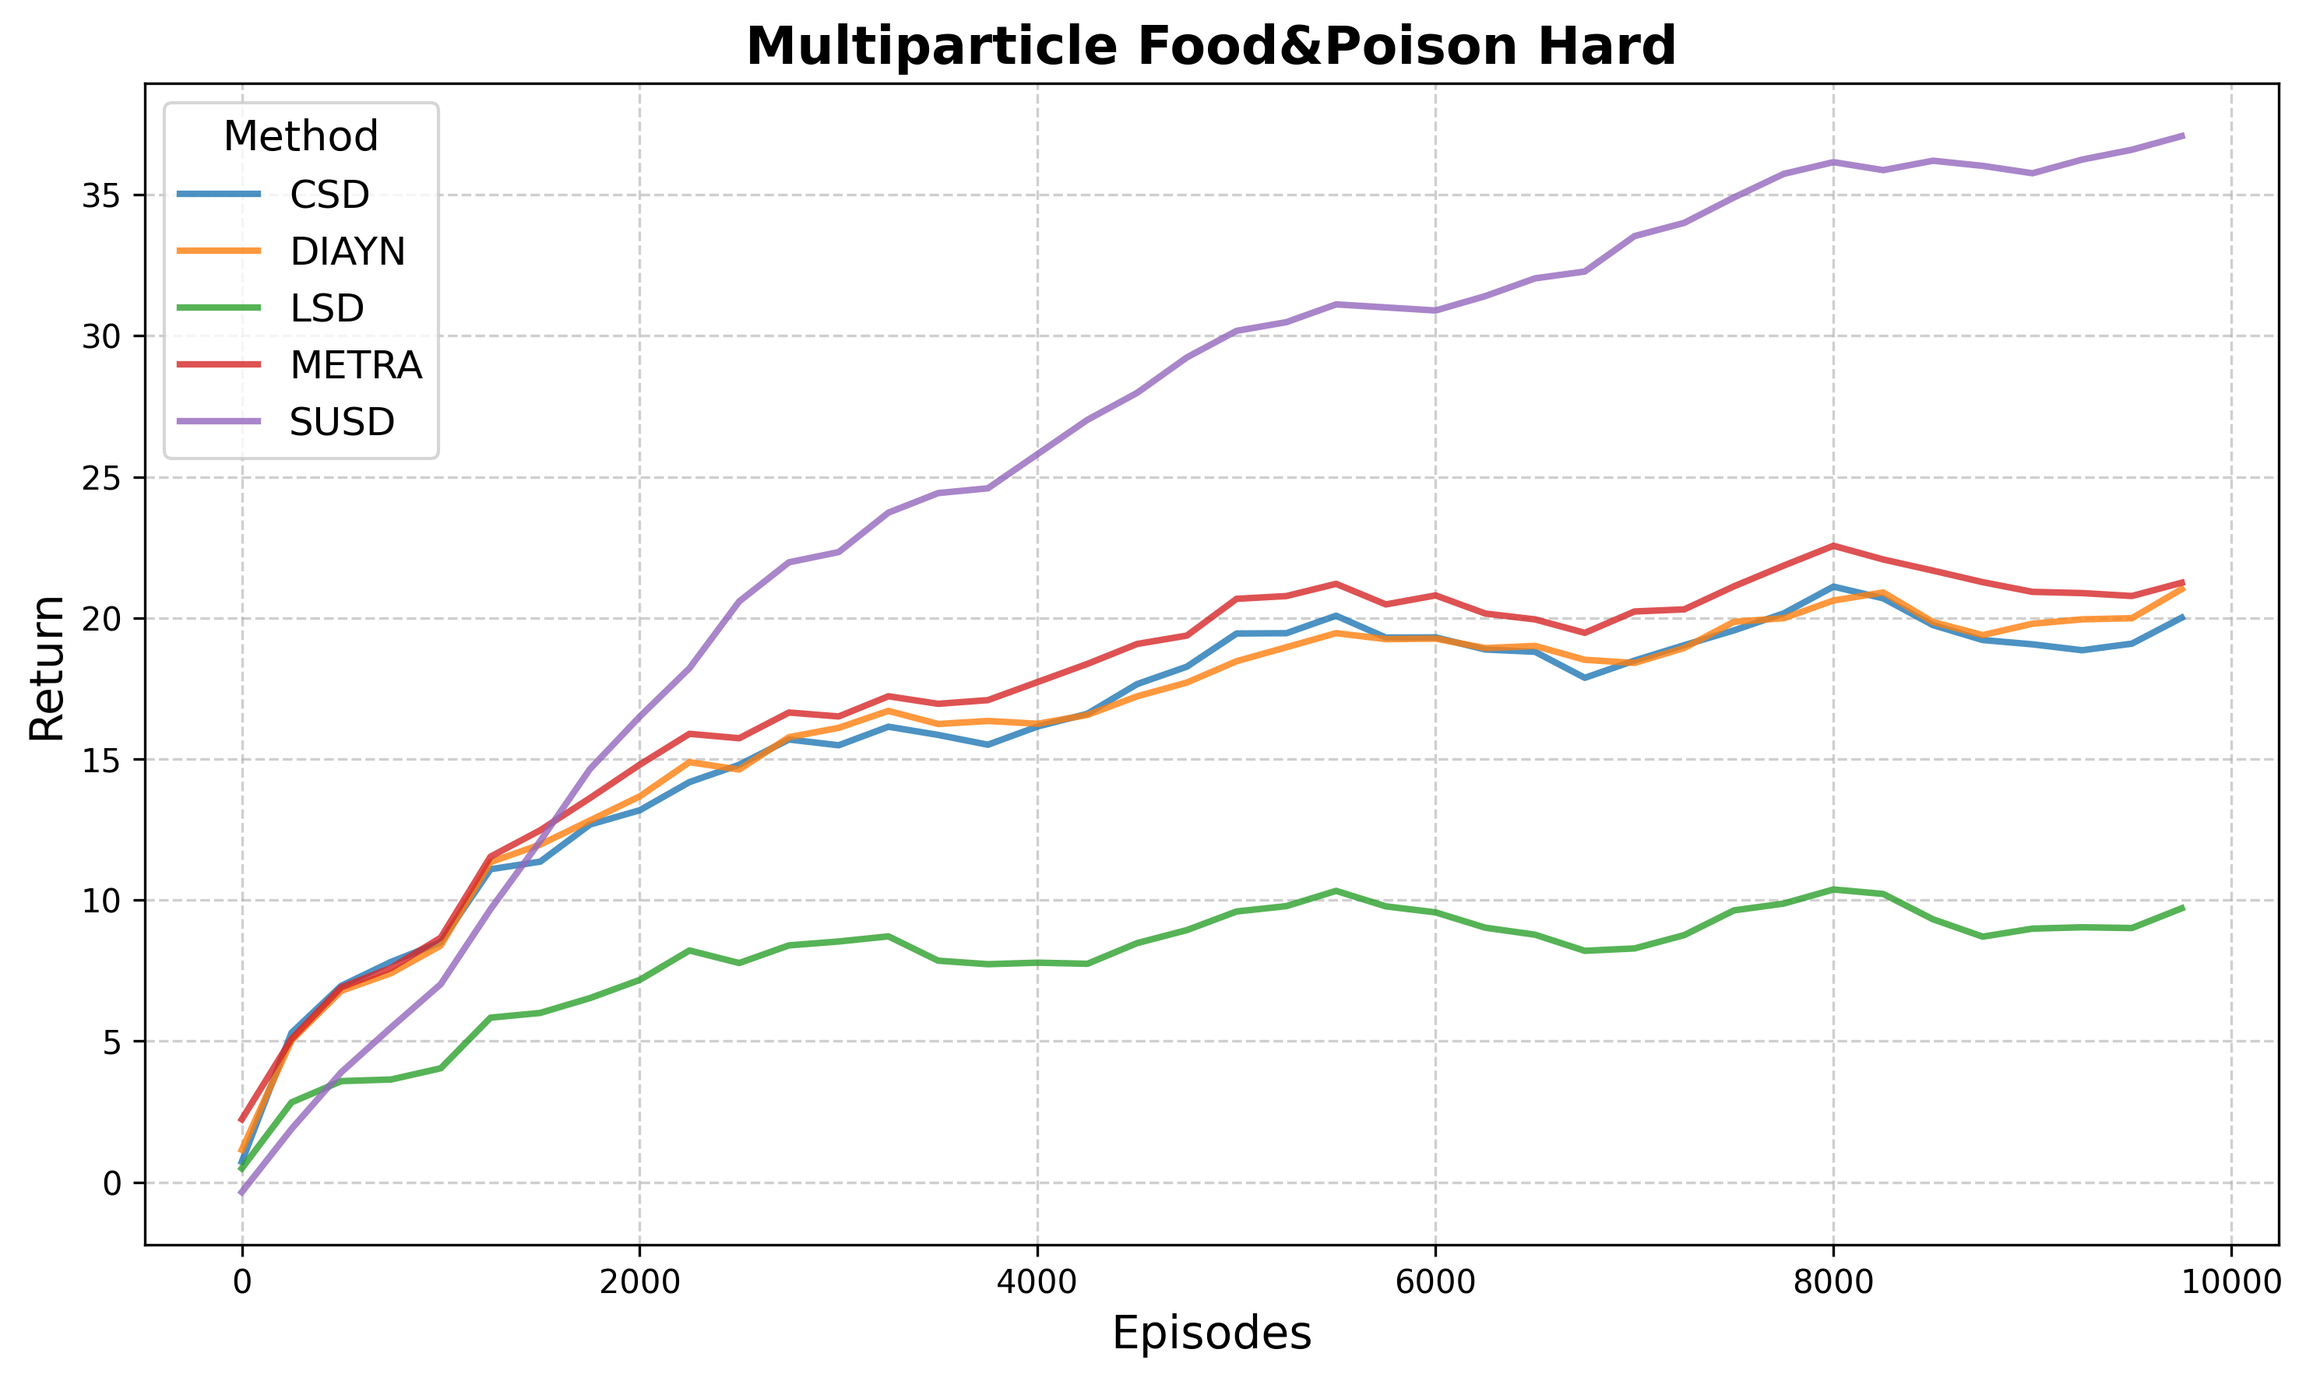
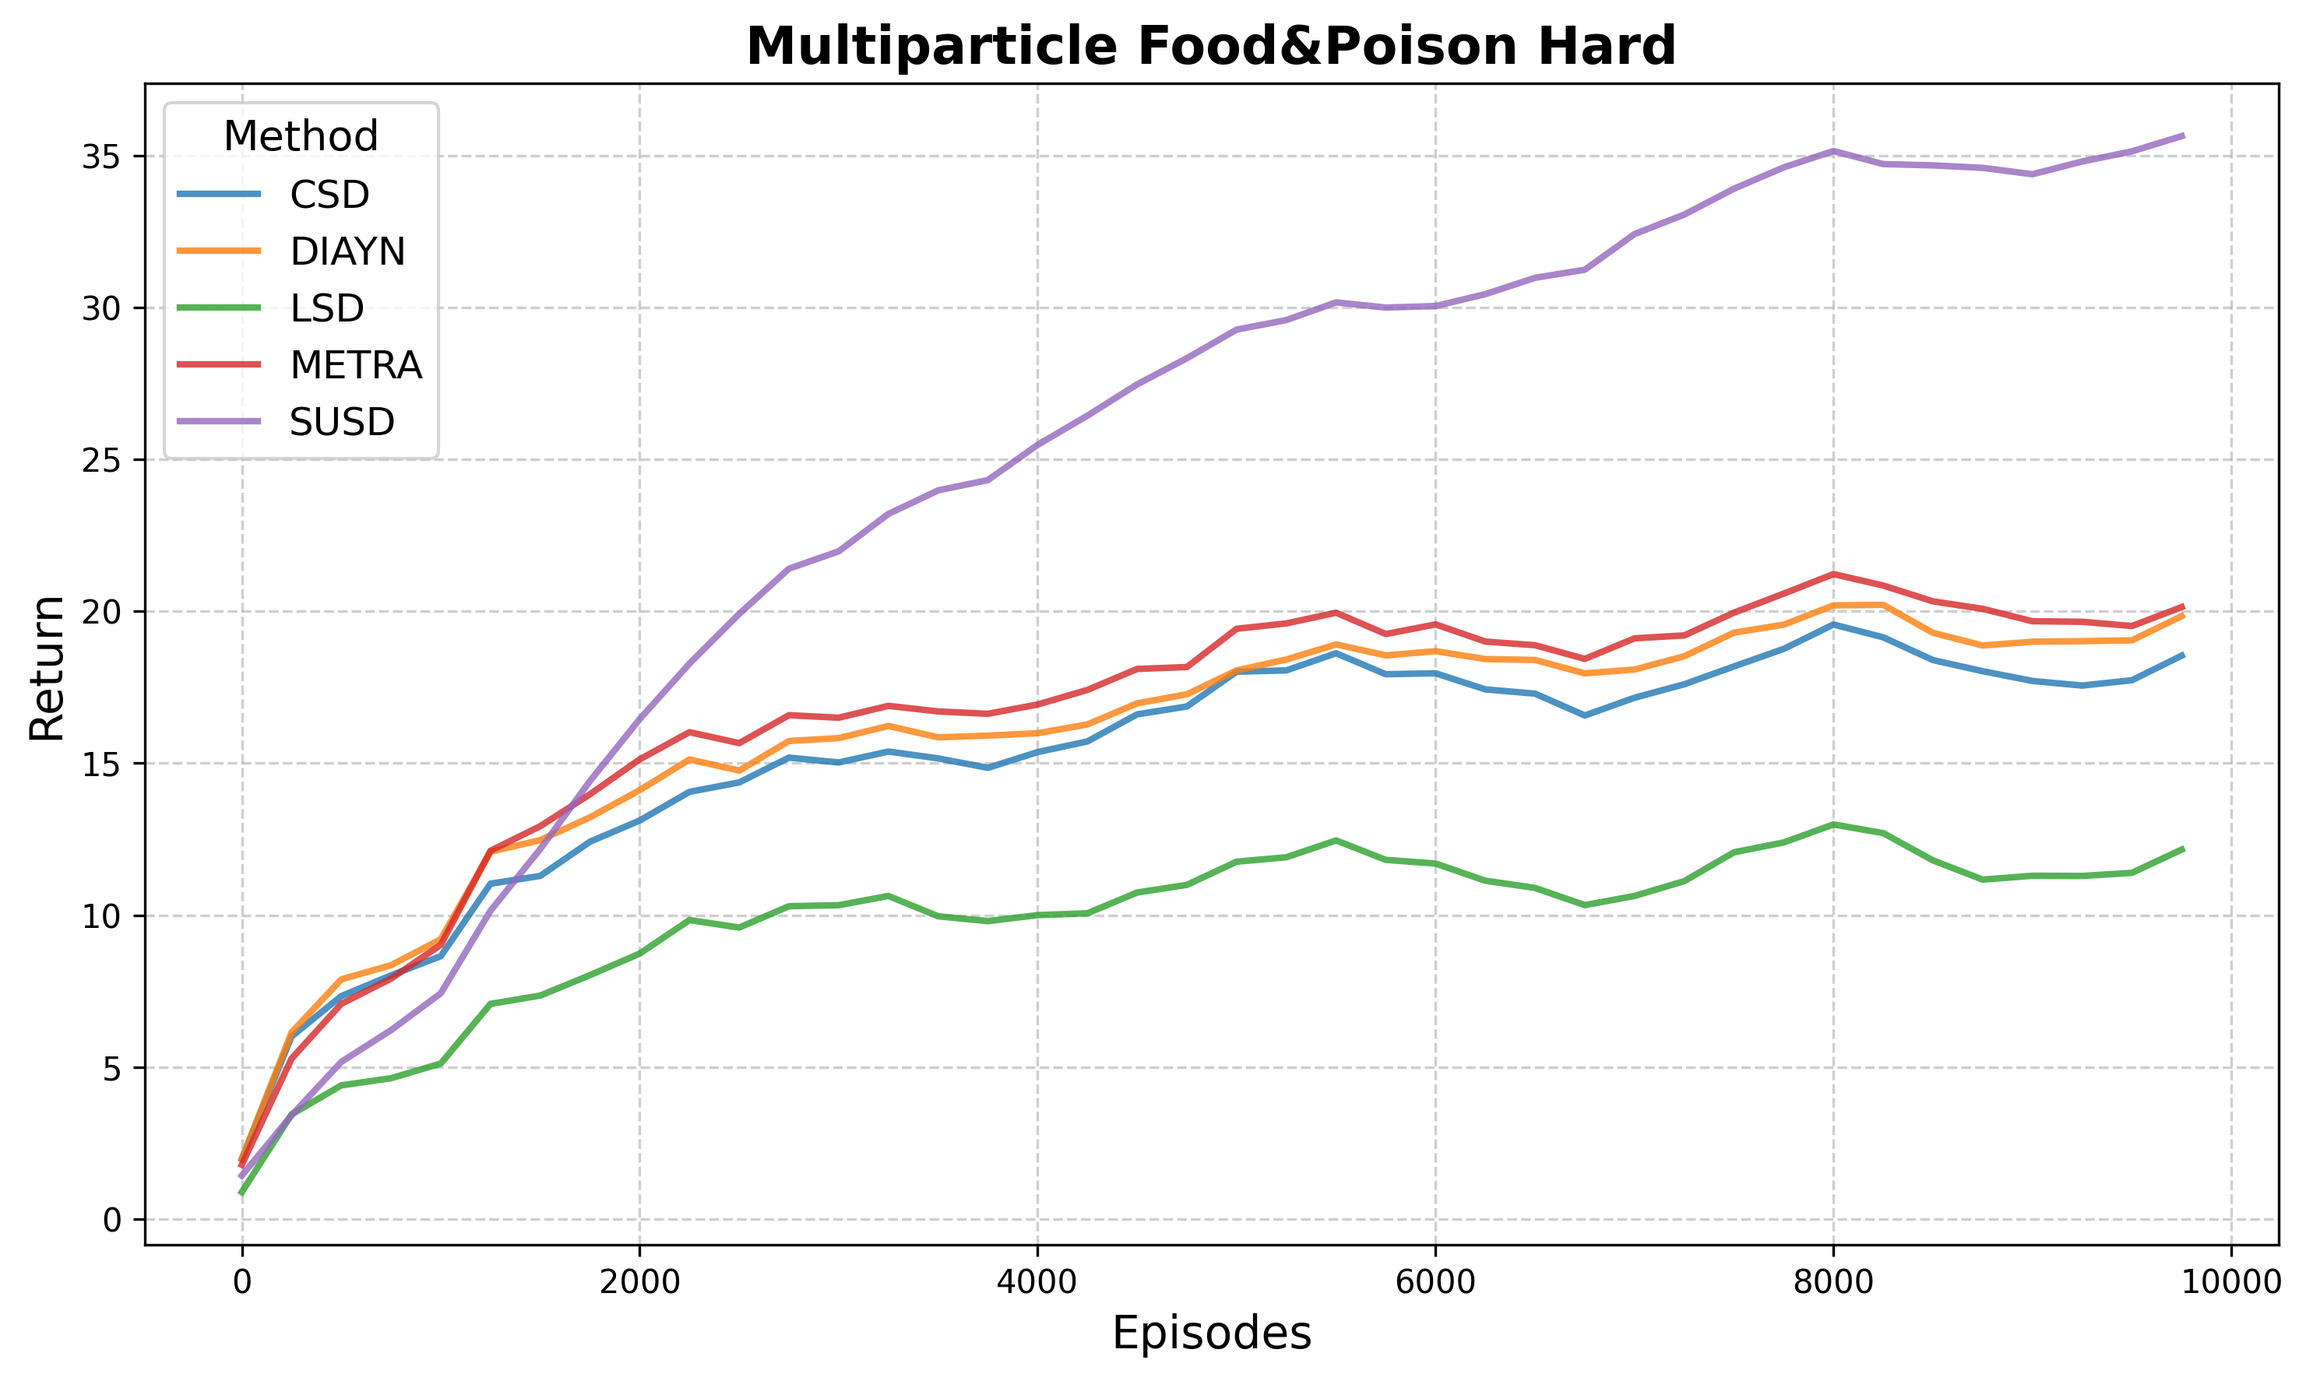
exp has completed

diff --git a/visualization/ablation1.py b/visualization/ablation1.py
@@ -1,0 +1,270 @@
+import pandas as pd
+import matplotlib.pyplot as plt
+from tbparse import SummaryReader
+import numpy as np
+
+methods = ["CSD", "ABLATION1", "SUSD"]
+
+def fp_diff(): # task_diff = 4
+    all_dfs = []
+    for method in methods:
+        if method == "ABLATION1":
+            reader = SummaryReader(f"./exp/HRL_SUSD_fp_4_ABLATION1", pivot=True)
+        else:
+            reader = SummaryReader(f"./exp/HRL_{method}_fp_4", pivot=True)
+        df = reader.scalars[["step", "EvalOp/AverageDiscountedReturn"]].copy()
+        df = df.dropna(subset=["EvalOp/AverageDiscountedReturn"])
+        df["method"] = method
+        all_dfs.append(df)
+
+    fp_diff = pd.concat(all_dfs)
+    return fp_diff
+
+def fp_hard(): # task_diff = 3
+    all_dfs = []
+    for method in methods:
+        if method == "ABLATION1":
+            reader = SummaryReader(f"./exp/HRL_SUSD_fp_3_ABLATION1", pivot=True)
+        else:
+            reader = SummaryReader(f"./exp/HRL_{method}_fp_3", pivot=True)
+        df = reader.scalars[["step", "EvalOp/AverageDiscountedReturn"]].copy()
+        df = df.dropna(subset=["EvalOp/AverageDiscountedReturn"])
+        df["method"] = method
+        all_dfs.append(df)
+
+    fp_hard = pd.concat(all_dfs)
+    return fp_hard
+
+def fp_medium(): # task_diff = 2
+    all_dfs = []
+    for method in methods:
+        if method == "ABLATION1":
+            reader = SummaryReader(f"./exp/HRL_SUSD_fp_2_ABLATION1", pivot=True)
+        else:
+            reader = SummaryReader(f"./exp/HRL_{method}_fp_2", pivot=True)
+        df = reader.scalars[["step", "EvalOp/AverageDiscountedReturn"]].copy()
+        df = df.dropna(subset=["EvalOp/AverageDiscountedReturn"])
+        df["method"] = method
+        all_dfs.append(df)
+
+    fp_medium = pd.concat(all_dfs)
+    return fp_medium
+
+def fp_easy(): # task_diff = 1
+    all_dfs = []
+    for method in methods:
+        if method == "ABLATION1":
+            reader = SummaryReader(f"./exp/HRL_SUSD_fp_1_ABLATION1", pivot=True)
+        else:
+            reader = SummaryReader(f"./exp/HRL_{method}_fp_1", pivot=True)
+        df = reader.scalars[["step", "EvalOp/AverageDiscountedReturn"]].copy()
+        df = df.dropna(subset=["EvalOp/AverageDiscountedReturn"])
+        df["method"] = method
+        all_dfs.append(df)
+
+    fp_easy = pd.concat(all_dfs)
+    return fp_easy
+
+def seq_easy(): # task_diff = 5
+    all_dfs = []
+    for method in methods:
+        if method == "ABLATION1":
+            reader = SummaryReader(f"./exp/HRL_SUSD_seq_5_ABLATION1", pivot=True)
+        else:
+            reader = SummaryReader(f"./exp/HRL_{method}_seq_5", pivot=True)
+        df = reader.scalars[["step", "EvalOp/AverageDiscountedReturn"]].copy()
+        df = df.dropna(subset=["EvalOp/AverageDiscountedReturn"])
+        df["method"] = method
+        all_dfs.append(df)
+
+    seq_easy = pd.concat(all_dfs)
+    return seq_easy
+
+def seq_medium(): # task_diff = 6
+    all_dfs = []
+    for method in methods:
+        if method == "ABLATION1":
+            reader = SummaryReader(f"./exp/HRL_SUSD_seq_6_ABLATION1", pivot=True)
+        else:
+            reader = SummaryReader(f"./exp/HRL_{method}_seq_6", pivot=True)
+        df = reader.scalars[["step", "EvalOp/AverageDiscountedReturn"]].copy()
+        df = df.dropna(subset=["EvalOp/AverageDiscountedReturn"])
+        df["method"] = method
+        all_dfs.append(df)
+
+    seq_medium = pd.concat(all_dfs)
+    return seq_medium
+
+def seq_hard(): # task_diff = 7
+    all_dfs = []
+    for method in methods:
+        if method == "ABLATION1":
+            reader = SummaryReader(f"./exp/HRL_SUSD_seq_7_ABLATION1", pivot=True)
+        else:
+            reader = SummaryReader(f"./exp/HRL_{method}_seq_7", pivot=True)
+        df = reader.scalars[["step", "EvalOp/AverageDiscountedReturn"]].copy()
+        df = df.dropna(subset=["EvalOp/AverageDiscountedReturn"])
+        df["method"] = method
+        all_dfs.append(df)
+
+    seq_hard = pd.concat(all_dfs)
+    return seq_hard
+
+
+def lim(): 
+    all_dfs = []
+    for method in methods:
+        if method == "ABLATION1":
+            reader = SummaryReader(f"./exp/HRL_SUSD_lim_ABLATION1", pivot=True)
+        else:
+            reader = SummaryReader(f"./exp/HRL_{method}_lim", pivot=True)
+        df = reader.scalars[["step", "EvalOp/AverageDiscountedReturn"]].copy()
+        df = df.dropna(subset=["EvalOp/AverageDiscountedReturn"])
+        df["method"] = method
+        all_dfs.append(df)
+
+    seq_hard = pd.concat(all_dfs)
+    return seq_hard
+
+def nolim():
+    all_dfs = []
+    for method in methods:
+        if method == "ABLATION1":
+            reader = SummaryReader(f"./exp/HRL_SUSD_nolim_ABLATION1", pivot=True)
+        else:
+            reader = SummaryReader(f"./exp/HRL_{method}_nolim", pivot=True)
+        df = reader.scalars[["step", "EvalOp/AverageDiscountedReturn"]].copy()
+        df = df.dropna(subset=["EvalOp/AverageDiscountedReturn"])
+        df["method"] = method
+        all_dfs.append(df)
+
+    seq_hard = pd.concat(all_dfs)
+    return seq_hard
+
+def plot_result(df, save_path, title):
+    plt.figure(figsize=(10,6))
+
+    window = 5
+    for method, group in df.groupby("method"):
+        group_sorted = group.sort_values("step").copy()
+
+        # compute mean and CI for each list
+        group_sorted["mean"] = group_sorted["EvalOp/AverageDiscountedReturn"].apply(
+            lambda x: np.mean(x)
+        )
+        # group_sorted["ci95"] = group_sorted["EvalOp/AverageDiscountedReturn"].apply(
+        #     lambda x: 1.96 * np.std(x, ddof=1) / np.sqrt(len(x)) if len(x) > 1 else 0
+        # )
+
+
+        # rolling mean for smoothing
+        smoothed = group_sorted["mean"].rolling(window, min_periods=1).mean()
+        # smoothed_ci = group_sorted["ci95"].rolling(window, min_periods=1).mean()
+
+        # plot line
+        plt.plot(
+            group_sorted["step"],
+            smoothed,
+            label=method,
+            linewidth=2,
+            alpha=0.8
+        )
+
+        # # plot confidence band
+        # plt.fill_between(
+        #     group_sorted["step"],
+        #     smoothed - smoothed_ci,
+        #     smoothed + smoothed_ci,
+        #     alpha=0.05
+        # )
+
+    # styling
+    plt.title(title, fontsize=16, weight="bold")
+    plt.xlabel("Episodes", fontsize=14)
+    plt.ylabel("Return", fontsize=14)
+
+    plt.grid(True, linestyle="--", alpha=0.6)
+    plt.legend(title="Method", fontsize=12, title_fontsize=13, loc="best")
+    plt.tight_layout()
+
+    # save before showing
+    plt.savefig(save_path, dpi=300, bbox_inches="tight")
+    plt.show()
+
+
+# def plot_result(df, save_path, title):
+#     plt.figure(figsize=(10,6))
+
+#     window = 5
+#     for method, group in df.groupby("method"):
+#         group_sorted = group.sort_values("step")
+#         smoothed = group_sorted["EvalOp/AverageDiscountedReturn"].rolling(window, min_periods=1).mean()
+#         plt.plot(
+#             group_sorted["step"],
+#             smoothed,
+#             label=method,
+#             linewidth=2,
+#             alpha=0.6
+#         )
+
+#     # styling
+#     plt.title(title, fontsize=16, weight="bold")
+#     plt.xlabel("Steps", fontsize=14)
+#     plt.ylabel("Return", fontsize=14)
+
+#     plt.grid(True, linestyle="--", alpha=0.6)
+#     plt.legend(title="Method", fontsize=12, title_fontsize=13, loc="best")
+#     plt.tight_layout()
+
+#     # save before showing
+#     plt.savefig(save_path, dpi=300, bbox_inches="tight")
+#     plt.show()
+
+### mp_fp_diff
+save_path = "visualization/ablation/mp_fp_diff.png" 
+mp_fp_diff = fp_diff()
+plot_result(mp_fp_diff, save_path, title="Multiparticle Food&Poison Difficult")
+
+
+### mp_fp_hard
+save_path = "visualization/ablation/mp_fp_hard.png" 
+mp_fp_hard = fp_hard()
+plot_result(mp_fp_hard, save_path, title="Multiparticle Food&Poison Hard")
+
+
+### mp_fp_medium
+save_path = "visualization/ablation/mp_fp_medium.png" 
+mp_fp_medium = fp_medium()
+plot_result(mp_fp_medium, save_path, title="Multiparticle Food&Poison Medium")
+
+### mp_fp_easy
+save_path = "visualization/ablation/mp_fp_easy.png" 
+mp_fp_easy = fp_easy()
+plot_result(mp_fp_easy, save_path, title="Multiparticle Food&Poison Easy")
+
+
+### gunner_lim
+save_path = "visualization/ablation/gunner_lim.png" 
+mp_fp_diff = lim()
+plot_result(mp_fp_diff, save_path, title="Gunner Limitation")
+
+
+### gunner_nolim
+save_path = "visualization/ablation/gunner_nolim.png" 
+mp_fp_hard = nolim()
+plot_result(mp_fp_hard, save_path, title="Gunner No Limitation")
+
+### mp seq_easy
+save_path = "visualization/ablation/mp_seq_easy.png" 
+mp_seq_easy = seq_easy()
+plot_result(mp_seq_easy, save_path, title="Multiparticle Sequential Easy")
+
+### mp seq_medium
+save_path = "visualization/ablation/mp_seq_medium.png" 
+mp_seq_medium = seq_medium()
+plot_result(mp_seq_medium, save_path, title="Multiparticle Sequential Medium")
+
+### mp seq_hard
+save_path = "visualization/ablation/mp_seq_hard.png" 
+mp_seq_hard = seq_hard()
+plot_result(mp_seq_hard, save_path, title="Multiparticle Sequential Hard")

diff --git a/src/train.py b/src/train.py
@@ -125,8 +125,8 @@ class BaselineHighLevelParticleConfig(SUSDHighLevelConfig):
     max_path_length: int =  10 # 10
     dim_option: int = 2
     n_parallel: int = 1  # 1
-    task_diff: int = 2 # fp: 1: easy 2: medium 3: hard 4: diff  |  seq: 5: easy 6: medium 7:hard
-    downstream_task: str = "fp" # fp: food&poison seq: sequential
+    task_diff: int = 7 # fp: 1: easy 2: medium 3: hard 4: diff  |  seq: 5: easy 6: medium 7:hard
+    downstream_task: str = "seq" # fp: food&poison seq: sequential
     run_group: str = f"HRL_{baseline}_{downstream_task}_{task_diff}"
     traj_batch_size: int = 1 
     num_random_trajectories: int = 100
@@ -168,8 +168,8 @@ class BaselineHighLevelParticleConfig(SUSDHighLevelConfig):
 class SUSDHighLevelParticleConfig(SUSDHighLevelConfig):
     max_path_length: int = 10 # 10
     dim_option: int = 20 # susd
-    task_diff: int = 2 # fp: 1: easy 2: medium 3: hard 4: diff  |  seq: 5: easy 6: medium 7:hard
-    downstream_task: str = "fp" # fp: food&poison seq: sequential
+    task_diff: int = 7 # fp: 1: easy 2: medium 3: hard 4: diff  |  seq: 5: easy 6: medium 7:hard
+    downstream_task: str = "seq" # fp: food&poison seq: sequential
     run_group: str = f"HRL_SUSD_{downstream_task}_{task_diff}"
     n_parallel: int = 1 
     traj_batch_size: int = 1 
@@ -192,7 +192,8 @@ class SUSDHighLevelParticleConfig(SUSDHighLevelConfig):
     n_epochs_per_pt_save: int = 1000 # 1000
     te_only_last_frame: int  = 0
     alpha: float = 0.1
-    cp_path: str = "/home/hadi/rl/SUSD/final_models/particle/SUSD/option_policy10000.pt"
+    cp_path: str = "final_models/particle/SUSD/option_policy10000.pt" # ORIGINAL
+    # cp_path: str = "final_models/particle/ABLATION1/option_policy10000.pt" # ABLATION1
     cp_unit_length: int = 1
 
     env: str = "particle"
@@ -253,7 +254,7 @@ class SUSDHighLevelGunnerConfig(SUSDHighLevelConfig):
     dim_option: int = 2 # susd
     downstream_task: str = "lim" # lim: with limitation; nolim: no limitation
     run_group: str = f"HRL_SUSD_{downstream_task}"
-    n_parallel: int = 8 
+    n_parallel: int = 1 
     traj_batch_size: int = 1 
     num_random_trajectories: int = 100 # number of trajectories for evaluation
     cp_multi_step: int = 5 # 5
@@ -274,7 +275,8 @@ class SUSDHighLevelGunnerConfig(SUSDHighLevelConfig):
     n_epochs_per_pt_save: int = 1000 # 1000
     te_only_last_frame: int  = 0
     alpha: float = 0.1
-    cp_path: str = "final_models/gunner/SUSD/option_policy10000.pt"
+    # cp_path: str = "final_models/gunner/ABLATION1/option_policy10000.pt" # ablation1
+    cp_path: str = "final_models/gunner/SUSD/option_policy10000.pt" # SUSD
     cp_unit_length: int = 1
 
     env: str = "gunner"
@@ -315,7 +317,7 @@ elif method == "baseline_particle":
     args = BaselineHighLevelParticleConfig()
 
 
-# method = "baseline_gunner" # ["susd_gunner", "baseline_gunner"]
+# method = "susd_gunner" # ["susd_gunner", "baseline_gunner"]
 
 # if method == "susd_gunner":
 #     args = SUSDHighLevelGunnerConfig()

diff --git a/src/conf.py b/src/conf.py
@@ -205,13 +205,13 @@ class SUSDParticle(SUSDConfig):
     susd_dist_norm: int = 0 # using normalization for marginal distribution
     susd_input_factor0: int = 1 # input factor zero (robot) to the other phi functions
     susd_q_function: int = 0 # 1: use q-function for reward estimation 0: off
-    susd_ablation1: int = 1 # use CSD weight for all factors
+    susd_ablation1: int = 0 # use CSD weight for all factors
 
 
 
 @dataclass
 class SUSDGunner(SUSDConfig):
-    run_group: str = 'TEST'
+    run_group: str = 'SUSD_ABLATION1_GUNNER'
     env: str = 'gunner'
     max_path_length: int = 50
     seed: int = 0
@@ -235,3 +235,4 @@ class SUSDGunner(SUSDConfig):
     susd_dist_norm: int = 0 # using normalization for marginal distribution
     susd_input_factor0: int = 1 # input factor zero (robot) to the other phi functions
     susd_q_function: int = 0 # 1: use q-function for reward estimation 0: off
+    susd_ablation1: int = 1 # use CSD weight for all factors

diff --git a/iod/susd.py b/iod/susd.py
@@ -345,7 +345,10 @@ class SUSD(IOD):
 
 
                 if self.do_print:
-                    self.csd_logs.append((runner.step_itr, [csd_distances[:, i].mean().detach().cpu().numpy().item() for i in range(len(self.partition_points) - 1)]))
+                    if self.susd_ablation1:
+                        self.csd_logs.append((runner.step_itr, [csd_distances.mean().detach().cpu().numpy().item() for i in range(len(self.partition_points) - 1)]))
+                    else:
+                        self.csd_logs.append((runner.step_itr, [csd_distances[:, i].mean().detach().cpu().numpy().item() for i in range(len(self.partition_points) - 1)]))
 
                 v.update({'csd_distances': csd_distances})
 

diff --git a/src/child_policy_env_gunner.py b/src/child_policy_env_gunner.py
@@ -29,8 +29,8 @@ class ChildPolicyEnvGunner(gym.Wrapper):
         self.child_policy.eval()
 
         self.cp_dim_action = cp_dict['dim_option']
-        self.cp_N = getattr(cp_dict, 'N', 1) # baselines
-        # self.cp_N = getattr(cp_dict, 'N', 3) # susd
+        # self.cp_N = getattr(cp_dict, 'N', 1) # baselines
+        self.cp_N = getattr(cp_dict, 'N', 3) # susd
 
         
         self.cp_action_range = cp_action_range

diff --git a/envs/Pettingzoo-skill/pettingzoo/utils/wrappers/centralized_wrapper.py b/envs/Pettingzoo-skill/pettingzoo/utils/wrappers/centralized_wrapper.py
@@ -175,7 +175,7 @@ class DownstreamCentralizedWrapper(CentralizedWrapper):
 			raise TypeError("Unsupported type for vec. Must be torch.Tensor, numpy.ndarray, or list.")
 
 
-	def reset(self, seed=3): # 0: pretrain seed # 1/2/3: train seed
+	def reset(self, seed=7): # 0: pretrain seed # 1/2/3: train seed
 		self._env.reset(seed)
 		self.step_count = 0.0
 		self.downstream_reset()

diff --git a/src/pretrain.py b/src/pretrain.py
@@ -63,8 +63,8 @@ else:
 
 
 # args = SUSDFrankaKitchenConfig()
-args = SUSDParticle()
-# args = SUSDGunner()
+# args = SUSDParticle()
+args = SUSDGunner()
 
 
 @wrap_experiment(log_dir=get_log_dir(args), name=get_exp_name(args)[0])
